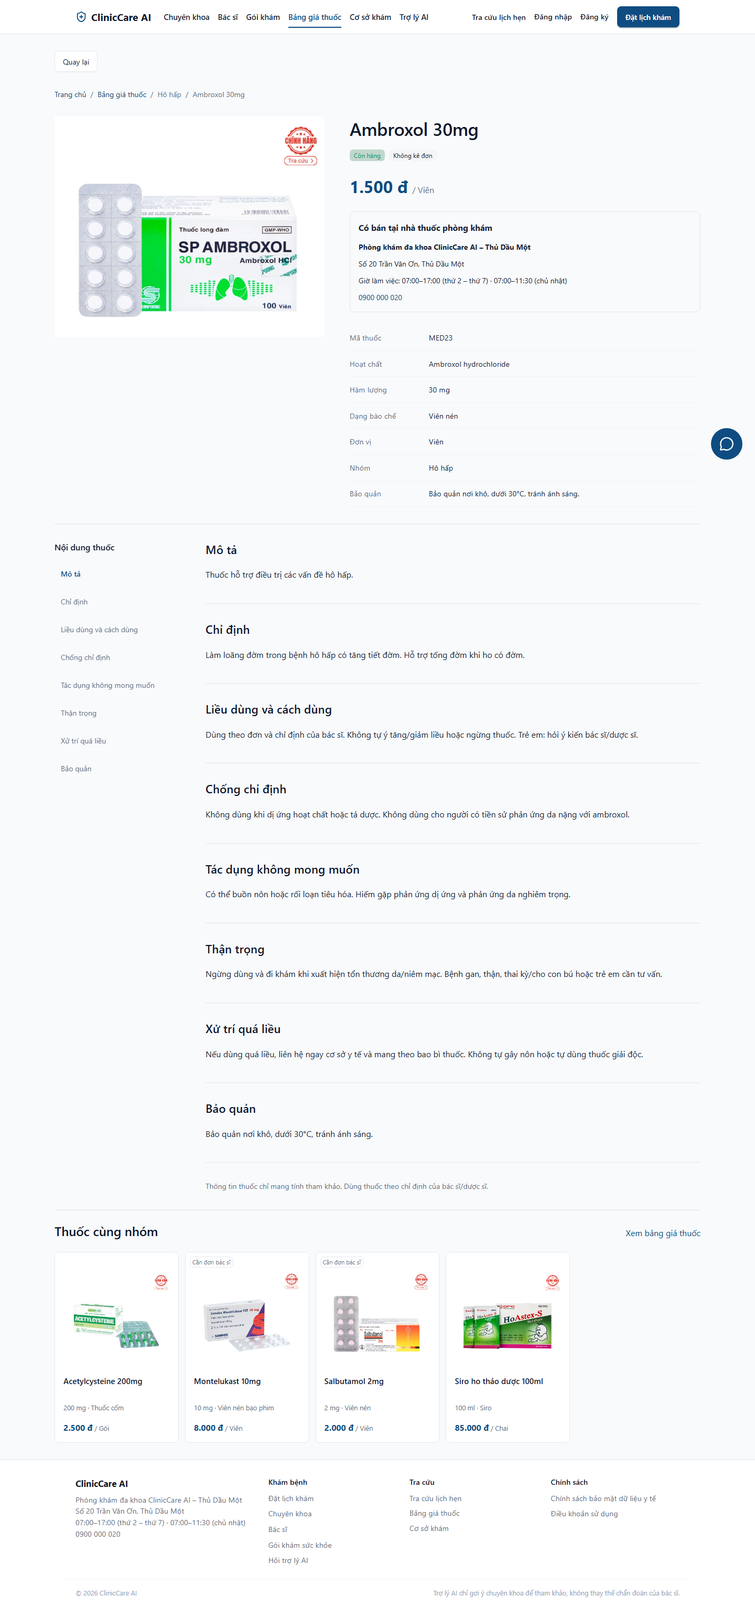
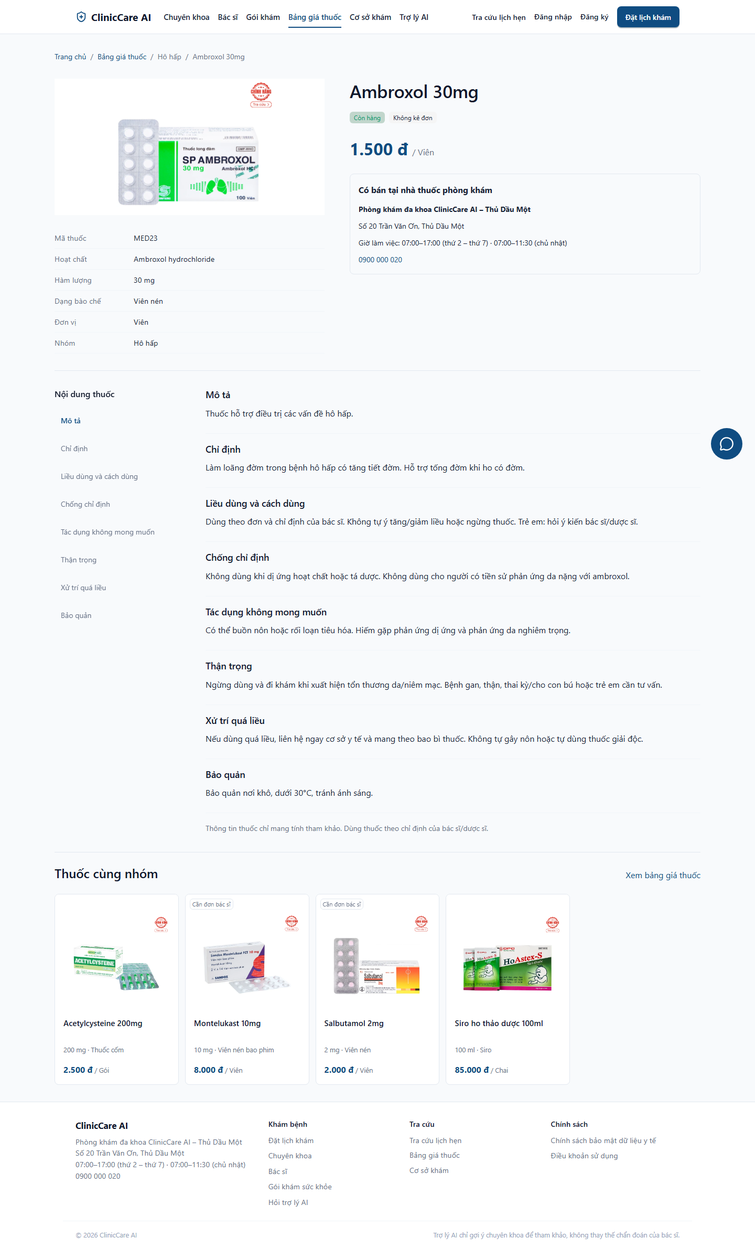
fix(public): polish specialty and medicine detail layouts (doctor grid, package card, mobile order, spec table, compact article)

diff --git a/src/frontend/src/pages/public/SpecialtyDetail.module.css b/src/frontend/src/pages/public/SpecialtyDetail.module.css
@@ -22,7 +22,7 @@
 .sectionTitle { font-size: 1.1rem; font-weight: 600; color: var(--cc-color-text-dark); margin: 0 0 var(--cc-space-md); }
 .recommendationsSection { margin-bottom: var(--cc-space-xl); }
 .recommendationsExplanation { font-size: 0.875rem; color: var(--cc-color-text-secondary); margin: 0 0 var(--cc-space-md); line-height: 1.5; }
-.doctorGrid { display: grid; grid-template-columns: repeat(3, minmax(0, 1fr)); gap: var(--cc-space-md); }
+.doctorGrid { display: grid; grid-template-columns: repeat(auto-fill, minmax(min(100%, 260px), 320px)); gap: var(--cc-space-md); }
 .doctorCard, .recommendationCard { min-width: 0; display: flex; flex-direction: column; padding: var(--cc-space-md); background: var(--cc-color-public-surface); border: 1px solid var(--cc-color-border); border-radius: var(--cc-radius-md); }
 .bestMatchBadge { align-self: flex-start; margin: 0 0 var(--cc-space-sm); color: var(--cc-color-public-accent); background: var(--cc-color-public-accent-soft); border-color: var(--cc-color-border); }
 .doctorName { margin: 0 0 var(--cc-space-xs); font-size: 1rem; font-weight: 600; line-height: 1.5; color: var(--cc-color-text-dark); }
@@ -57,7 +57,6 @@
 @media (prefers-reduced-motion: reduce) { .pageSkeleton, .recommendationSkeleton { animation: none; } }
 @media (max-width: 768px) {
     .pageContainer { padding: var(--cc-space-lg) var(--cc-space-md); }
-    .detailLayout, .doctorGrid { grid-template-columns: minmax(0, 1fr); }
     .sidebarCard { position: static; }
     .pageTitle { font-size: 1.5rem; }
 }
@@ -72,12 +71,13 @@
 .headerActions { display: flex; flex-wrap: wrap; gap: var(--cc-space-sm); }
 .headerActions a { min-width: 160px; }
 .detailLayout { grid-template-columns: minmax(0, 2fr) minmax(280px, 1fr); }
-.sidebar { position: sticky; top: calc(var(--cc-header-height) + var(--cc-space-lg)); display: flex; flex-direction: column; gap: var(--cc-space-lg); }
+.mainColumn { grid-column: 1; grid-row: 1; }
+.sidebar { grid-column: 2; grid-row: 1; position: sticky; top: calc(var(--cc-header-height) + var(--cc-space-lg)); display: flex; flex-direction: column; gap: var(--cc-space-lg); }
 .sidebarCard { position: static; }
 .contentSection { padding: 0 0 var(--cc-space-xl); margin-bottom: var(--cc-space-xl); border-bottom: 1px solid var(--cc-color-border); }
 .sectionTitle { font-size: 1.35rem; line-height: 1.4; }
 .conditionGrid, .serviceGrid { display: grid; grid-template-columns: repeat(2, minmax(0, 1fr)); gap: var(--cc-space-sm); padding: 0; list-style: none; margin: 0; }
-.conditionGrid li { display: flex; align-items: center; gap: var(--cc-space-sm); padding: var(--cc-space-sm); border: 1px solid var(--cc-color-border); border-radius: var(--cc-radius-md); }
+.conditionGrid li { min-width: 0; display: flex; align-items: center; gap: var(--cc-space-sm); padding: var(--cc-space-sm); border: 1px solid var(--cc-color-border); border-radius: var(--cc-radius-md); }
 .conditionGrid svg { flex-shrink: 0; color: var(--cc-color-primary); }
 .serviceGrid li { padding: var(--cc-space-sm) 0; border-bottom: 1px solid var(--cc-color-border-light); }
 .readingList { padding-left: var(--cc-space-lg); margin: 0; line-height: 1.8; }
@@ -90,16 +90,25 @@
 .locations address { display: flex; flex-direction: column; gap: var(--cc-space-xs); font-style: normal; line-height: 1.7; }
 .locations a { color: var(--cc-color-primary); }
 .doctorSection { margin-top: var(--cc-space-xl); }
-.doctorGrid { grid-template-columns: repeat(auto-fit, minmax(min(100%, 260px), 1fr)); }
-.packageGrid { display: grid; grid-template-columns: repeat(auto-fit, minmax(min(100%, 240px), 1fr)); gap: var(--cc-space-md); }
-.packageCard { overflow: hidden; border: 1px solid var(--cc-color-border); border-radius: var(--cc-radius-md); }
-.packageCard img { display: block; width: 100%; height: 180px; object-fit: cover; }
+.packageGrid { display: grid; grid-template-columns: repeat(2, minmax(0, 1fr)); gap: var(--cc-space-md); }
+.packageCard { min-width: 0; overflow: hidden; border: 1px solid var(--cc-color-border); border-radius: var(--cc-radius-md); }
+.packageCard img { display: block; width: 100%; height: auto; aspect-ratio: 4 / 3; object-fit: cover; }
+.packageSingle { grid-template-columns: minmax(0, 1fr); }
+.packageSingle .packageCard { display: grid; grid-template-columns: 280px minmax(0, 1fr); align-items: center; }
 .packageCard > div { display: flex; flex-direction: column; align-items: flex-start; gap: var(--cc-space-sm); padding: var(--cc-space-md); }
 .packageCard h3, .packageCard p { margin: 0; }
 .disclaimer { padding-top: var(--cc-space-xl); margin-top: var(--cc-space-xl); border-top: 1px solid var(--cc-color-border); font-size: .875rem; color: var(--cc-color-text-secondary); line-height: 1.7; }
-@media (max-width: 768px) {
+@media (max-width: 899px) {
     .detailLayout { grid-template-columns: minmax(0, 1fr); }
+    .mainColumn, .sidebar { grid-column: 1; grid-row: auto; }
     .sidebar { position: static; }
-    .conditionGrid, .serviceGrid { grid-template-columns: minmax(0, 1fr); }
+    .bookingCard { display: none; }
+}
+@media (max-width: 768px) {
+    .serviceGrid, .packageGrid { grid-template-columns: minmax(0, 1fr); }
+    .packageSingle .packageCard { display: block; }
+    .conditionGrid { gap: var(--cc-space-xs); }
+    .conditionGrid li { align-items: flex-start; gap: var(--cc-space-xs); padding: var(--cc-space-xs) var(--cc-space-sm); font-size: .875rem; line-height: 1.5; }
+    .conditionGrid svg { margin-top: 2px; }
     .detailHeader { padding-top: var(--cc-space-lg); }
 }

diff --git a/src/frontend/src/pages/public/MedicineDetail.module.css b/src/frontend/src/pages/public/MedicineDetail.module.css
@@ -1,12 +1,11 @@
 .page { width: 100%; min-width: 0; max-width: 1280px; margin: 0 auto; padding: var(--cc-space-xl) var(--cc-content-padding); display: flex; flex-direction: column; gap: var(--cc-space-xl); color: var(--cc-color-text); overflow-wrap: anywhere; }
-.page > button { align-self: flex-start; }
 .breadcrumb { display: flex; flex-wrap: wrap; gap: var(--cc-space-xs); color: var(--cc-color-text-secondary); font-size: .875rem; }
 .breadcrumb a, .sectionHeader a { color: var(--cc-color-primary); text-decoration: none; }
-.summary { display: grid; grid-template-columns: minmax(0, 1fr) minmax(0, 1.3fr); gap: calc(var(--cc-space-xl) * 1.5); align-items: start; padding-bottom: var(--cc-space-xl); border-bottom: 1px solid var(--cc-color-border); }
-.imageArea { min-height: 420px; display: flex; align-items: center; justify-content: center; background: var(--cc-color-public-surface); overflow: hidden; }
-.image { display: block; width: 100%; height: 420px; object-fit: contain; }
+.summary { display: grid; grid-template-columns: minmax(0, 1fr) minmax(0, 1.3fr); grid-template-rows: auto 1fr; grid-template-areas: "image overview" "facts overview"; column-gap: calc(var(--cc-space-xl) * 1.5); row-gap: var(--cc-space-lg); align-items: start; padding-bottom: var(--cc-space-xl); border-bottom: 1px solid var(--cc-color-border); }
+.imageArea { grid-area: image; min-height: 260px; display: flex; align-items: center; justify-content: center; background: var(--cc-color-public-surface); overflow: hidden; }
+.image { display: block; width: 100%; height: 260px; object-fit: contain; }
 .placeholder { color: var(--cc-color-text-secondary); }
-.overview { min-width: 0; }
+.overview { grid-area: overview; min-width: 0; }
 .overview h1 { margin: 0 0 var(--cc-space-md); color: var(--cc-color-text-dark); font-size: clamp(1.6rem, 2.5vw, 2.1rem); line-height: 1.4; }
 .tags { display: flex; flex-wrap: wrap; gap: var(--cc-space-xs); }
 .price { display: flex; flex-wrap: wrap; align-items: baseline; gap: var(--cc-space-xs); margin: var(--cc-space-lg) 0; font-variant-numeric: tabular-nums; }
@@ -16,8 +15,8 @@
 .notice > p { margin: 0 0 var(--cc-space-sm); }
 .bookingLink { display: inline-flex; align-items: center; justify-content: center; min-height: var(--cc-control-height); padding: var(--cc-space-xs) var(--cc-space-md); border-radius: var(--cc-radius-md); background: var(--cc-color-primary); color: var(--cc-color-text-on-dark); text-decoration: none; font-weight: 600; }
 .bookingLink:hover { background: var(--cc-color-primary-hover); color: var(--cc-color-text-on-dark); }
-.facts { margin: 0; font-size: .9rem; }
-.facts > div { display: grid; grid-template-columns: 135px minmax(0, 1fr); gap: var(--cc-space-md); padding: var(--cc-space-sm) 0; border-bottom: 1px solid var(--cc-color-border-light); line-height: 1.7; }
+.facts { grid-area: facts; min-width: 0; margin: 0; font-size: .9rem; }
+.facts > div { display: grid; grid-template-columns: 135px minmax(0, 1fr); gap: var(--cc-space-md); padding: var(--cc-space-xs) 0; border-bottom: 1px solid var(--cc-color-border-light); line-height: 1.6; }
 .facts dt { color: var(--cc-color-text-secondary); }
 .facts dd { margin: 0; }
 .articleLayout { display: grid; grid-template-columns: 240px minmax(0, 1fr); gap: calc(var(--cc-space-xl) * 1.5); align-items: start; }
@@ -29,9 +28,9 @@
 .toc a:hover { color: var(--cc-color-primary); }
 .article { min-width: 0; }
 .fullArticle { grid-column: 1 / -1; }
-.articleSection { scroll-margin-top: calc(var(--cc-header-height) + var(--cc-space-xl)); padding-bottom: var(--cc-space-xl); margin-bottom: var(--cc-space-xl); border-bottom: 1px solid var(--cc-color-border); }
-.articleSection h2 { margin: 0 0 var(--cc-space-md); font-size: 1.4rem; color: var(--cc-color-text-dark); line-height: 1.5; }
-.text { white-space: pre-line; overflow-wrap: anywhere; margin: var(--cc-space-xs) 0; line-height: 1.85; }
+.articleSection { scroll-margin-top: calc(var(--cc-header-height) + var(--cc-space-xl)); padding-bottom: var(--cc-space-md); margin-bottom: var(--cc-space-md); border-bottom: 1px solid var(--cc-color-border-light); }
+.articleSection h2 { margin: 0 0 var(--cc-space-xs); font-size: 1.1rem; font-weight: 600; color: var(--cc-color-text-dark); line-height: 1.5; }
+.text { white-space: pre-line; overflow-wrap: anywhere; margin: var(--cc-space-xs) 0; line-height: 1.75; }
 .prescribed { border: 1px solid var(--cc-color-primary); }
 .interactions { display: flex; flex-direction: column; gap: var(--cc-space-md); }
 .interaction { padding: var(--cc-space-md); border: 1px solid var(--cc-color-border); border-radius: var(--cc-radius-md); }
@@ -43,6 +42,7 @@
 @media (max-width: 768px) {
     .page { padding: var(--cc-space-lg) var(--cc-space-md); gap: var(--cc-space-lg); }
     .summary, .articleLayout { grid-template-columns: minmax(0, 1fr); gap: var(--cc-space-lg); }
+    .summary { grid-template-rows: none; grid-template-areas: "image" "overview" "facts"; }
     .imageArea { min-height: 240px; }
     .image { height: 280px; }
     .toc { top: var(--cc-header-height); z-index: 2; background: var(--cc-color-public-surface); padding: var(--cc-space-sm) 0; border-bottom: 1px solid var(--cc-color-border); }

diff --git a/src/frontend/src/pages/public/specialty/SpecialtyDoctors.tsx b/src/frontend/src/pages/public/specialty/SpecialtyDoctors.tsx
@@ -9,6 +9,8 @@ import styles from '../SpecialtyDetail.module.css';
 export function SpecialtyDoctors({ data }: { data: ReturnType<typeof useSpecialtyDetail> }) {
     const { specialty, doctors, recommendations, recommendationsLoading, recommendationsError, fetchRecommendations } = data;
     if (!specialty) return null;
+    const recommendedIds = new Set(recommendations.map(item => item.doctorId));
+    const teamDoctors = doctors.filter(doc => !recommendedIds.has(doc.id));
     return <>
                 {(recommendationsLoading || recommendationsError || recommendations.length > 0) && <section className={styles.recommendationsSection} aria-labelledby="recommended-doctors-title">
                     <h2 id="recommended-doctors-title" className={styles.sectionTitle}>Bác sĩ được gợi ý</h2>
@@ -39,17 +41,20 @@ export function SpecialtyDoctors({ data }: { data: ReturnType<typeof useSpecialt
                     </div>}
                 </section>}
 
-                <h2 className={styles.sectionTitle}>Bác sĩ của khoa ({doctors.length})</h2>
-                {doctors.length > 0 ? <div className={styles.doctorGrid}>
-                    {doctors.map(doc => <article key={doc.id} className={styles.doctorCard}>
-                        <h3 className={styles.doctorName}>{formatDoctorName(doc.academicTitle, doc.fullName)}</h3>
-                        <span className={styles.doctorSpecialty}>{specialty.specialtyName}</span>
-                        <span className={styles.doctorExperience}>{doc.experienceYears > 0 ? `${doc.experienceYears} năm kinh nghiệm` : 'Chưa cập nhật kinh nghiệm'}</span>
-                        <div className={styles.doctorActions}>
-                            <Link to={`/patient/book?specialtyId=${specialty.id}&doctorId=${doc.id}`} className={styles.bookingLink}>Đặt khám với bác sĩ</Link>
-                            <Link to={`/doctors/${doc.id}`} className={styles.profileLink}>Hồ sơ bác sĩ</Link>
+                {doctors.length === 0 ? recommendations.length === 0 && <div className={styles.doctorsEmpty}>Khoa chưa có bác sĩ nhận lịch trực tuyến. Bạn vẫn có thể đặt lịch theo chuyên khoa.</div>
+                    : teamDoctors.length > 0 && <section aria-labelledby="specialty-doctors-title">
+                        <h2 id="specialty-doctors-title" className={styles.sectionTitle}>Bác sĩ của khoa ({teamDoctors.length})</h2>
+                        <div className={styles.doctorGrid}>
+                            {teamDoctors.map(doc => <article key={doc.id} className={styles.doctorCard}>
+                                <h3 className={styles.doctorName}>{formatDoctorName(doc.academicTitle, doc.fullName)}</h3>
+                                <span className={styles.doctorSpecialty}>{specialty.specialtyName}</span>
+                                <span className={styles.doctorExperience}>{doc.experienceYears > 0 ? `${doc.experienceYears} năm kinh nghiệm` : 'Chưa cập nhật kinh nghiệm'}</span>
+                                <div className={styles.doctorActions}>
+                                    <Link to={`/patient/book?specialtyId=${specialty.id}&doctorId=${doc.id}`} className={styles.bookingLink}>Đặt khám với bác sĩ</Link>
+                                    <Link to={`/doctors/${doc.id}`} className={styles.profileLink}>Hồ sơ bác sĩ</Link>
+                                </div>
+                            </article>)}
                         </div>
-                    </article>)}
-                </div> : <div className={styles.doctorsEmpty}>Khoa chưa có bác sĩ nhận lịch trực tuyến. Bạn vẫn có thể đặt lịch theo chuyên khoa.</div>}
+                    </section>}
     </>;
 }

diff --git a/src/frontend/src/pages/public/specialty/SpecialtyDetail.test.tsx b/src/frontend/src/pages/public/specialty/SpecialtyDetail.test.tsx
@@ -52,4 +52,27 @@ describe('Rich specialty page', () => {
         fireEvent.click(within(error).getByRole('button', { name: 'Thử lại' }));
         expect(await screen.findByText('Địa chỉ demo')).toBeInTheDocument();
     });
+    it('lists only doctors not already recommended under the team section', async () => {
+        const doctor = (id: number, fullName: string) => ({ id, fullName, experienceYears: 5 });
+        const recommended = (doctorId: number, fullName: string) => ({ doctorId, fullName, experienceYears: 5, experienceScore: .5, availabilityScore: .5, totalScore: .5, earliestAvailableSlot: null });
+        vi.mocked(axiosClient.get).mockImplementation(async url => ({ success: true, data: url === '/specialties/2' ? specialty
+            : url === '/specialties/2/doctors?page=1&pageSize=20' ? [doctor(1, 'Bác sĩ Một'), doctor(2, 'Bác sĩ Hai'), doctor(3, 'Bác sĩ Ba')]
+                : url === '/specialties/2/recommended-doctors' ? [recommended(1, 'Bác sĩ Một')] : [] }));
+        mount();
+        const team = await screen.findByRole('region', { name: 'Bác sĩ của khoa (2)' });
+        const recommendations = screen.getByRole('region', { name: 'Bác sĩ được gợi ý' });
+        expect(within(recommendations).getByRole('heading', { name: 'Bác sĩ Một' })).toBeInTheDocument();
+        expect(within(team).queryByRole('heading', { name: 'Bác sĩ Một' })).not.toBeInTheDocument();
+        expect(within(team).getAllByRole('heading', { level: 3 }).map(item => item.textContent)).toEqual(['Bác sĩ Hai', 'Bác sĩ Ba']);
+    });
+    it('hides the team section when every doctor is already recommended', async () => {
+        vi.mocked(axiosClient.get).mockImplementation(async url => ({ success: true, data: url === '/specialties/2' ? specialty
+            : url === '/specialties/2/doctors?page=1&pageSize=20' ? [{ id: 1, fullName: 'Bác sĩ Một', experienceYears: 5 }]
+                : url === '/specialties/2/recommended-doctors' ? [{ doctorId: 1, fullName: 'Bác sĩ Một', experienceYears: 5, experienceScore: .5, availabilityScore: .5, totalScore: .5, earliestAvailableSlot: null }] : [] }));
+        mount();
+        await screen.findByRole('region', { name: 'Bác sĩ được gợi ý' });
+        expect(screen.getAllByRole('heading', { name: 'Bác sĩ Một' })).toHaveLength(1);
+        expect(screen.queryByRole('heading', { name: /Bác sĩ của khoa/ })).not.toBeInTheDocument();
+        expect(screen.queryByText(/Khoa chưa có bác sĩ nhận lịch trực tuyến/)).not.toBeInTheDocument();
+    });
 });

diff --git a/src/frontend/src/pages/public/MedicineDetail.tsx b/src/frontend/src/pages/public/MedicineDetail.tsx
@@ -1,6 +1,5 @@
 import { useEffect, useState } from 'react';
-import { Link, useLocation, useNavigate, useParams } from 'react-router-dom';
-import { Button } from 'antd';
+import { Link, useLocation, useParams } from 'react-router-dom';
 import { medicineApi } from '../../api/medicineApi';
 import type { PublicMedicineDto } from '../../types';
 import { EmptyState, InlineError, LoadingState } from '../../components/common';
@@ -17,7 +16,6 @@ type DetailState = { id?: string } & (
 );
 export function MedicineDetail() {
     const { id } = useParams();
-    const navigate = useNavigate();
     const location = useLocation();
     const [state, setState] = useState<DetailState>({ id, kind: 'loading' });
     const [attempt, setAttempt] = useState(0);
@@ -36,13 +34,7 @@ export function MedicineDetail() {
     const visible = !validId ? { kind: 'missing' as const } : state.id === id ? state : { kind: 'loading' as const };
     const prescribed = (location.state as { prescribed?: PrescribedDose } | null)?.prescribed;
     const medicine = visible.kind === 'ready' ? visible.medicine : null;
-    const goBack = () => {
-        // React Router tracks entries created inside the app; a direct visit has index zero.
-        if ((window.history.state?.idx ?? 0) > 0 || location.key !== 'default') navigate(-1);
-        else navigate('/medicines');
-    };
     return <main className={styles.page}>
-        <Button onClick={goBack}>Quay lại</Button>
         {visible.kind === 'loading' ? <LoadingState message="Đang tải thông tin thuốc..." />
             : visible.kind === 'error' ? <InlineError message={visible.message} onRetry={() => { setState({ id, kind: 'loading' }); setAttempt(value => value + 1); }} />
                 : visible.kind === 'missing' ? <EmptyState title="Không tìm thấy thuốc" description="Thuốc không tồn tại hoặc đã ngừng kinh doanh." />

diff --git a/src/frontend/src/test/specialtyDetailRecommendations.test.tsx b/src/frontend/src/test/specialtyDetailRecommendations.test.tsx
@@ -61,8 +61,7 @@ describe('Specialty doctor recommendations', () => {
         expect(within(cards[0]).getByText('Lịch trống sớm nhất: Thứ Tư, 14/10, 00:30')).toBeInTheDocument();
         expect(within(region).queryByText('Bác sĩ thứ tư')).not.toBeInTheDocument();
         expect(within(region).getByText('Gợi ý dựa trên kinh nghiệm và lịch trống gần nhất của bác sĩ.')).toBeInTheDocument();
-        const teamHeading = screen.getByRole('heading', { name: 'Bác sĩ của khoa (1)' });
-        expect(region.compareDocumentPosition(teamHeading) & Node.DOCUMENT_POSITION_FOLLOWING).toBeTruthy();
+        expect(screen.queryByRole('heading', { name: /Bác sĩ của khoa/ })).not.toBeInTheDocument();
         expect(screen.queryByText('Chỉ định thăm khám thường gặp')).not.toBeInTheDocument();
     }, 15000);
 
@@ -146,7 +145,7 @@ describe('Specialty doctor recommendations', () => {
         fireEvent.click(screen.getByRole('button', { name: 'Thử lại' }));
         await screen.findByRole('heading', { name: 'Nội khoa', level: 1 });
         expect(screen.getAllByRole('link', { name: 'Đặt lịch khám' })[0]).toHaveAttribute('href', '/patient/book?specialtyId=2');
-        expect(screen.getByRole('link', { name: 'Đặt khám với bác sĩ' })).toHaveAttribute('href', '/patient/book?specialtyId=2&doctorId=7');
+        expect(within(await recommendationsRegion()).getAllByRole('link', { name: 'Đặt lịch' })[0]).toHaveAttribute('href', '/patient/book?specialtyId=2&doctorId=7&date=2026-10-14');
         expect(screen.getAllByRole('link', { name: 'Hỏi trợ lý AI' })[0]).toHaveAttribute('href', '/patient/ai-consultation');
         expect(mocks.get.mock.calls.filter(call => call[0] === recommendationsUrl)).toHaveLength(1);
     }, 15000);

diff --git a/src/frontend/src/pages/public/SpecialtyDetail.tsx b/src/frontend/src/pages/public/SpecialtyDetail.tsx
@@ -41,12 +41,8 @@ export const SpecialtyDetail = () => {
             <div className={styles.headerActions}>{actions}</div>
         </header>
         <div className={styles.detailLayout}>
-            <div className={styles.mainColumn}>
-                {content && <SpecialtyClinicalContent content={content} />}
-                <SpecialtyPackages key={specialty.id} name={specialty.specialtyName} />
-            </div>
             <aside className={styles.sidebar}>
-                <section className={styles.sidebarCard} aria-label="Đặt lịch theo chuyên khoa">
+                <section className={`${styles.sidebarCard} ${styles.bookingCard}`} aria-label="Đặt lịch theo chuyên khoa">
                     <h2 className={styles.sidebarTitle}>Đặt lịch khám</h2>
                     <p className={styles.sidebarDescription}>Chọn bác sĩ và giờ khám ở bước tiếp theo.</p>
                     <Link to={`/patient/book?specialtyId=${specialty.id}`} className={styles.bookingLink}>Đặt lịch khám</Link>
@@ -57,6 +53,10 @@ export const SpecialtyDetail = () => {
                     <PublicLocations />
                 </section>
             </aside>
+            <div className={styles.mainColumn}>
+                {content && <SpecialtyClinicalContent content={content} />}
+                <SpecialtyPackages key={specialty.id} name={specialty.specialtyName} />
+            </div>
         </div>
         <div className={styles.doctorSection}><SpecialtyDoctors data={data} /></div>
         <p className={styles.disclaimer}>Thông tin chỉ mang tính tham khảo, không thay thế chẩn đoán của bác sĩ.</p>

diff --git a/src/frontend/src/test/medicineDetail.test.tsx b/src/frontend/src/test/medicineDetail.test.tsx
@@ -111,20 +111,11 @@ describe('Medicine detail', () => {
         expect(screen.queryByText('Query dose')).not.toBeInTheDocument();
     });
 
-    it('falls back to the price list when opened directly without in-app history', async () => {
+    it('relies on the breadcrumb instead of a separate back button', async () => {
         mount();
         await screen.findByRole('heading', { name: medicine.name });
-        fireEvent.click(screen.getByRole('button', { name: 'Quay lại' }));
-        expect(await screen.findByText('Danh sách đích')).toBeInTheDocument();
-    });
-
-    it('goes back to the previous in-app page', async () => {
-        render(<MemoryRouter initialEntries={['/origin', '/medicines/501']} initialIndex={1}><Routes>
-            <Route path="/origin" element={<p>Trang trước</p>} /><Route path="/medicines/:id" element={<MedicineDetail />} />
-        </Routes></MemoryRouter>);
-        await screen.findByRole('heading', { name: medicine.name });
-        fireEvent.click(screen.getByRole('button', { name: 'Quay lại' }));
-        expect(await screen.findByText('Trang trước')).toBeInTheDocument();
+        expect(screen.queryByRole('button', { name: 'Quay lại' })).not.toBeInTheDocument();
+        expect(within(screen.getByRole('navigation', { name: 'Đường dẫn trang' })).getByRole('link', { name: 'Bảng giá thuốc' })).toHaveAttribute('href', '/medicines');
     });
 
     it('uses the shared image URL and replaces failed images', async () => {

diff --git a/src/frontend/src/pages/public/medicine/MedicineOverview.tsx b/src/frontend/src/pages/public/medicine/MedicineOverview.tsx
@@ -13,7 +13,6 @@ export function MedicineOverview({ medicine }: { medicine: PublicMedicineDto }) 
     const facts = [
         ['Mã thuốc', medicine.code], ['Hoạt chất', medicine.activeIngredient], ['Hàm lượng', medicine.strength],
         ['Dạng bào chế', medicine.dosageForm], ['Đơn vị', medicine.unit], ['Nhóm', medicine.categoryName],
-        ...(medicine.storageInstructions?.trim() ? [['Bảo quản', medicine.storageInstructions]] : []),
     ];
     return <div className={styles.summary}>
         <div className={styles.imageArea}>
@@ -35,9 +34,9 @@ export function MedicineOverview({ medicine }: { medicine: PublicMedicineDto }) 
                     <Link to="/patient/book" className={styles.bookingLink}>Đặt lịch khám</Link>
                 </> : <><p><strong>Có bán tại nhà thuốc phòng khám</strong></p><PublicLocations /></>}
             </div>
-            <dl className={styles.facts}>{facts.map(([label, value]) => <div key={label}>
-                <dt>{label}</dt><dd>{value?.trim() || 'Chưa cập nhật'}</dd>
-            </div>)}</dl>
         </div>
+        <dl className={styles.facts}>{facts.map(([label, value]) => <div key={label}>
+            <dt>{label}</dt><dd>{value?.trim() || 'Chưa cập nhật'}</dd>
+        </div>)}</dl>
     </div>;
 }

diff --git a/src/frontend/src/pages/public/medicine/MedicineDetail.test.tsx b/src/frontend/src/pages/public/medicine/MedicineDetail.test.tsx
@@ -89,4 +89,13 @@ describe('Medicine article page', () => {
         await screen.findByRole('heading', { name: 'Thuốc liên quan 0' });
         expect(medicineApi.getPublicMedicine).toHaveBeenCalledTimes(1);
     });
+    it('keeps storage guidance in the article only, not in the spec table', async () => {
+        vi.mocked(medicineApi.getPublicMedicine).mockResolvedValue({ success: true, message: '', data: { ...medicine, storageInstructions: 'Nơi khô ráo' } });
+        const { container } = mount();
+        await screen.findByRole('heading', { name: medicine.name });
+        const terms = Array.from(container.querySelectorAll('dl dt')).map(item => item.textContent);
+        expect(terms).toEqual(['Mã thuốc', 'Hoạt chất', 'Hàm lượng', 'Dạng bào chế', 'Đơn vị', 'Nhóm']);
+        expect(screen.getByRole('heading', { name: 'Bảo quản' })).toBeInTheDocument();
+        expect(screen.getAllByText('Nơi khô ráo')).toHaveLength(1);
+    });
 });

diff --git a/src/frontend/src/pages/public/specialty/SpecialtyPackages.tsx b/src/frontend/src/pages/public/specialty/SpecialtyPackages.tsx
@@ -28,7 +28,7 @@ export function SpecialtyPackages({ name }: { name: string }) {
         <h2 id="specialty-packages-title" className={styles.sectionTitle}>Gói khám liên quan</h2>
         {loading ? <p role="status">Đang tải gói khám liên quan...</p> : error ? <InlineError message={error} onRetry={() => {
             setLoading(true); setError(''); setAttempt(value => value + 1);
-        }} /> : <div className={styles.packageGrid}>{packages.map(pkg => {
+        }} /> : <div className={packages.length === 1 ? `${styles.packageGrid} ${styles.packageSingle}` : styles.packageGrid}>{packages.map(pkg => {
             const image = packageImage(pkg.name, pkg.imageUrl || pkg.ImageUrl);
             return <article key={pkg.id} className={styles.packageCard}>
                 {image && <img src={image} alt={`Minh họa ${pkg.name}`} loading="lazy" width={800} height={600} />}
